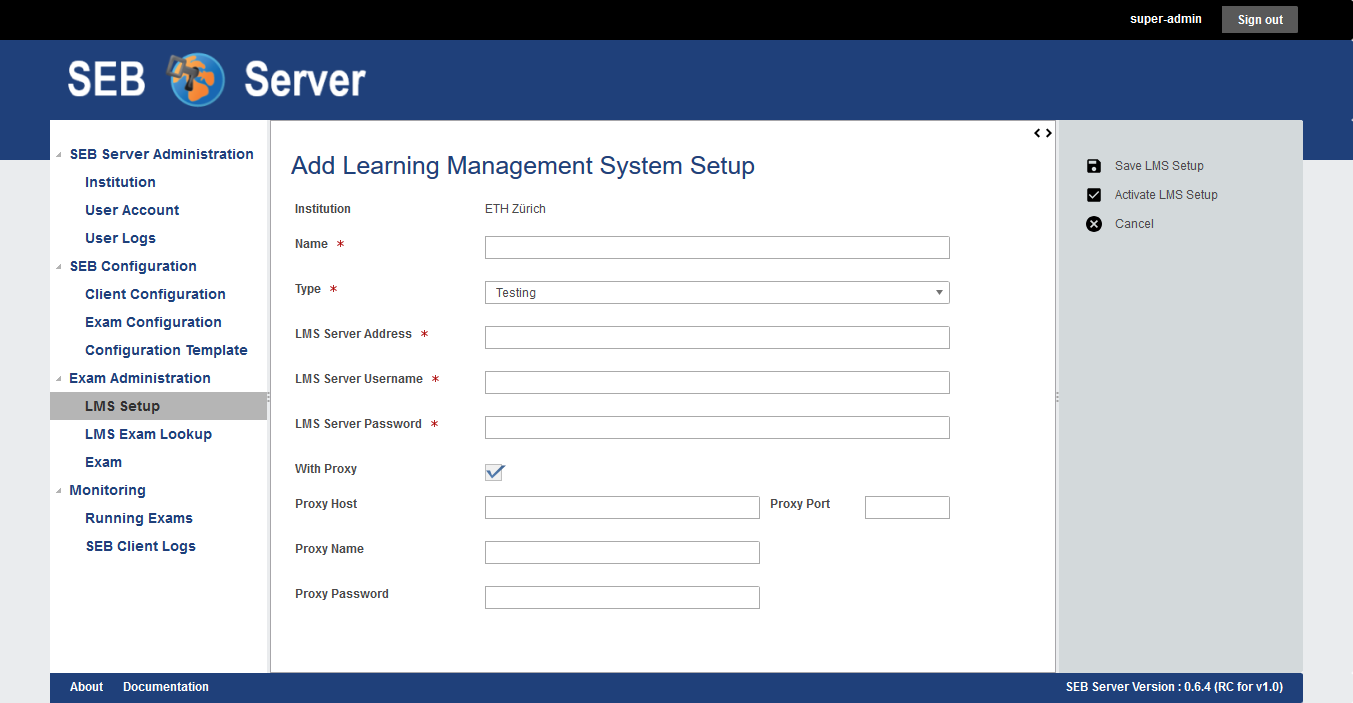
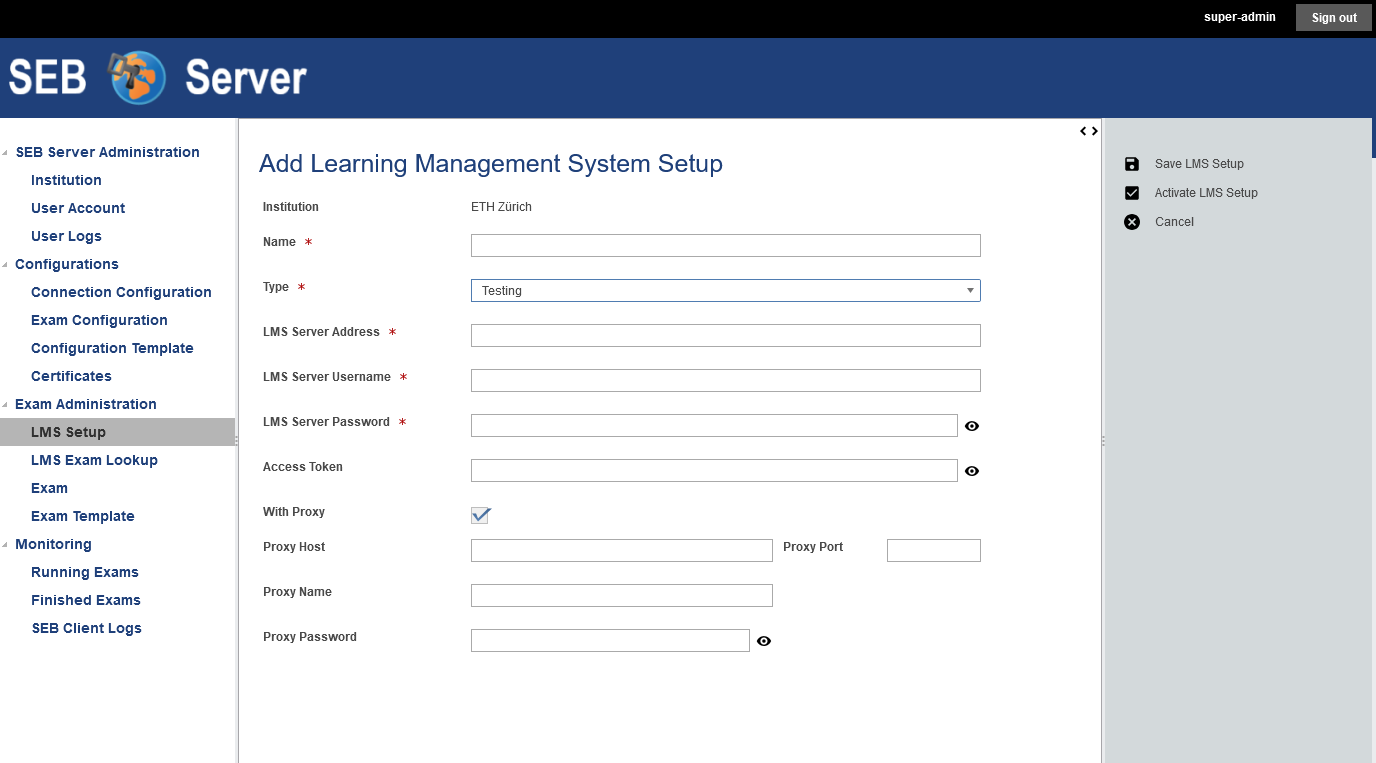
docu LMS Setup

diff --git a/docs/lmssetup.rst b/docs/lmssetup.rst
@@ -50,7 +50,7 @@ Therefore we need to create a LMS Setup on the SEB Server.
     
 A SEB Server administrator role will be able to see the institution to which the LMS Setup belongs to while an institutional administrator
 is only able to see and create LMS Setup for its own institution. The name of the LMS Setup should be unique and is to identify a LMS
-SEB Server internally. Use the "Type" selector to specify the type of the LMS to bind to the SEB Server within the LMS Setup. Currently supported are:
+SEB Server internally. Use the **"Type"** selector to specify the type of the LMS to bind to the SEB Server within the LMS Setup. Currently supported are:
 
 - **Testing**: This is for testing purposes only and can be used to mock a LMS to test exam settings. This type provides some mock-up courses within the 
   LMS API of the SEB Server that can be seen in the LMS Exam Lookup once the LMS text setup is active. This mock-up courses can be imported and configured
@@ -67,20 +67,23 @@ SEB Server internally. Use the "Type" selector to specify the type of the LMS to
   with SEB Server. Note that Moodle integration is implemented partially within SEB Server version 1.1.x. Only the course access feature is implemented and the course restriction feature will come with a future SEB Server release
 
 - **Moodle with SEB Server Plugin**: The `SEB Server Plugin for Moodle <https://github.com/ethz-let/moodle-quizzaccess_sebserver>`_ is new and supported by SEB Server since version 1.5.
-  With this plugin installed on Moodle side, SEB Server as able to more efficiently communicate with Moodle to fetch course data as well as restricting the quiz in Moodle side 
+  With this plugin installed on Moodle side, SEB Server is able to more efficiently communicate with Moodle to fetch course data as well as restricting the quiz on Moodle side 
   For SEB only access, using a auto-generated Browser Exam Key (BEK) for SEB restriction. Also the Moodle user name resolving for SEB Server monitoring is less error prone especially
-  if SSO or other login provider for Moodle is involved. Furthermore the new SEB Server Plugin for Moodle is constantly extended and improved with new features in the future.
+  if Single Sign On some kind of login provider for Moodle is involved. Furthermore the new SEB Server Plugin for Moodle will be constantly extended and improved with new features in the future.
 
-- **Ans Delft**: This type is to bind SEB Server with an `Ans Delft <https://ans.app/>`_ LMS instance. With the API credentials from an Ans Delft instance, SEB Server is able
+- **Ans Delft**: This type is to bind SEB Server with an `Ans Delft <https://ans.app/>`_ LMS. With the API credentials from an Ans Delft instance, SEB Server is able
   to connect to the Ans LMS and provide the common features for Course-Access, SEB Restriction and LMS User Session resolving.
   
-- **Open Olat**: This type is to bind SEB Server with an `Open Olat <https://www.openolat.com/>`_ LMS instance. With the API credentials from an Open Olat instance, SEB Server is able
+- **Open Olat**: This type is to bind SEB Server with an `Open Olat <https://www.openolat.com/>`_ LMS. With the API credentials from an Open Olat instance, SEB Server is able
   to connect to the Olat LMS and provide the common features for Course-Access, SEB Restriction and LMS User Session resolving. For more information please contact the Olat Development-Team at `OpenOLAT UZH <https://www.zi.uzh.ch/en/teaching-and-research/software-elearning/olat.html>`_
 
-The "LMS Server Address" is the root URL to connect to the LMS server with HTTP over the Internet or intranet. This is usually the URL that is 
+The **"LMS Server Address"** is the root URL to connect to the LMS server with HTTP over the Internet or intranet. This is usually the URL that is 
 also used with the Browser to connect to the main page of the LMS system. And additionally the credentials that have been created with the creation of the :ref:`lms-api-account-label` has to be set in the LMS Setup the make the SEB Server
-able to securely connect to the LMS. The API credentials that consists of a client-name and a client-secret must be used with the "LMS Server Username" 
-and the "LMS Server Password" fields of the LMS Setup form on SEB Server.
+able to securely connect to the LMS. The API credentials that consists of a client-name and a client-secret must be used with the **"LMS Server Username"** 
+and the **"LMS Server Password"** fields of the LMS Setup form on SEB Server.
+
+Alternatively to **"LMS Server Username"** and **"LMS Server Password"** you can use a direct **Access Token** to connect to the LMS API if the respective LMS allows to
+generate and use an access token directly.
 
 If the SEB Server running behind a proxy server or a firewall between SEB Server den LMS, the additional proxy settings can be used to setup the proxy-connection.
 

diff --git a/README.rst b/README.rst
@@ -19,8 +19,6 @@ Development:
     :target: https://github.com/SafeExamBrowser/seb-server/tree/development
 
 
-About
------
 The Safe Exam Browser Server web application simplifies and centralizes the configuration of Safe Exam Browser clients for exams. It interacts with a learning management or exam system for setting up and conducting e-assessments with Safe Exam Browser. It also improves security by allowing to monitor connected Safe Exam Browser clients in real time during e-assessments. 
 
 What is Safe Exam Browser (SEB)?
